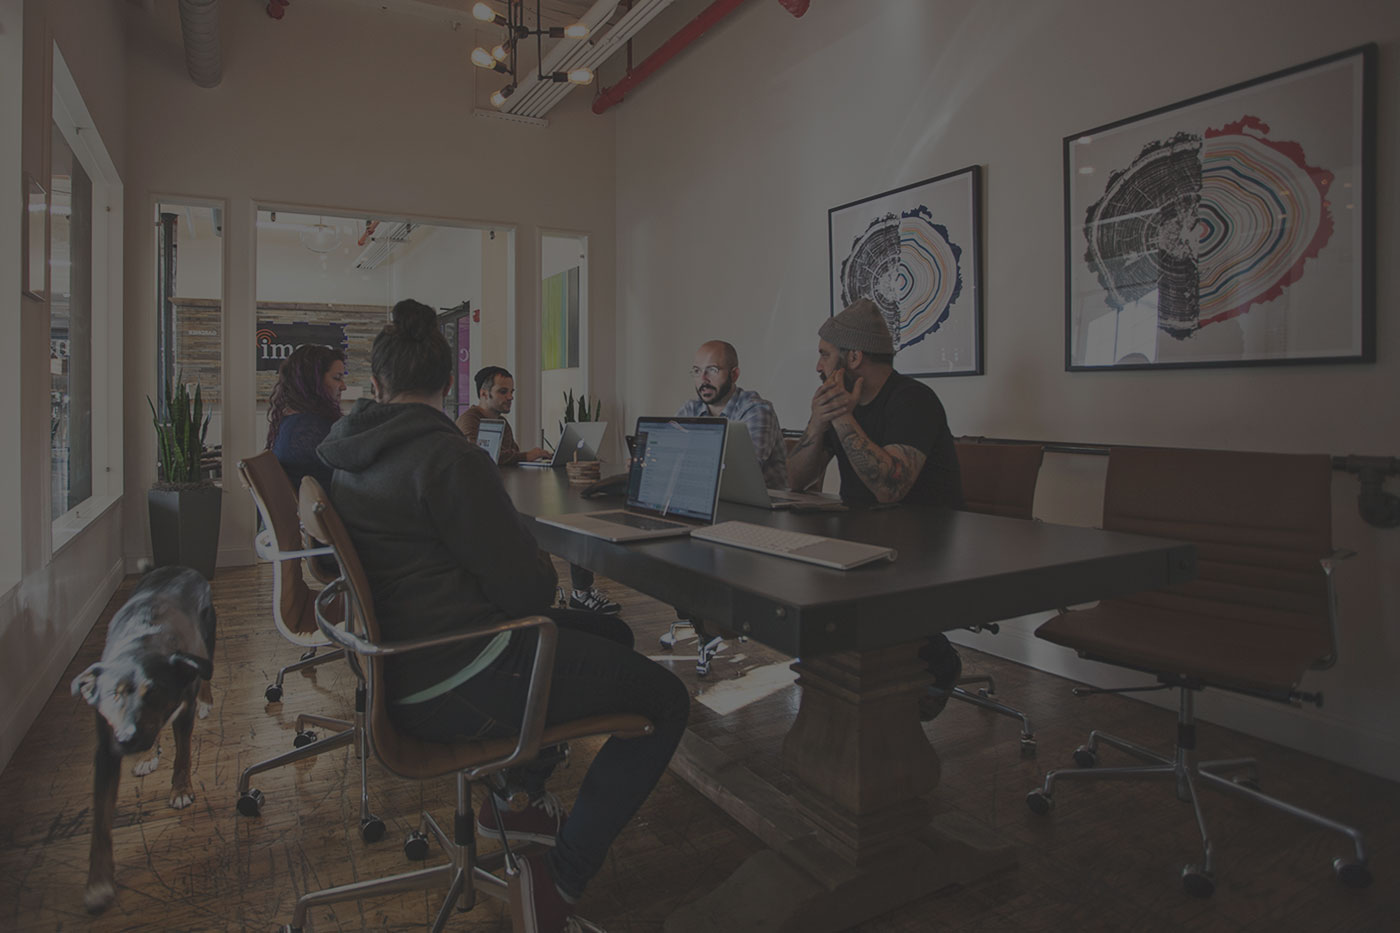
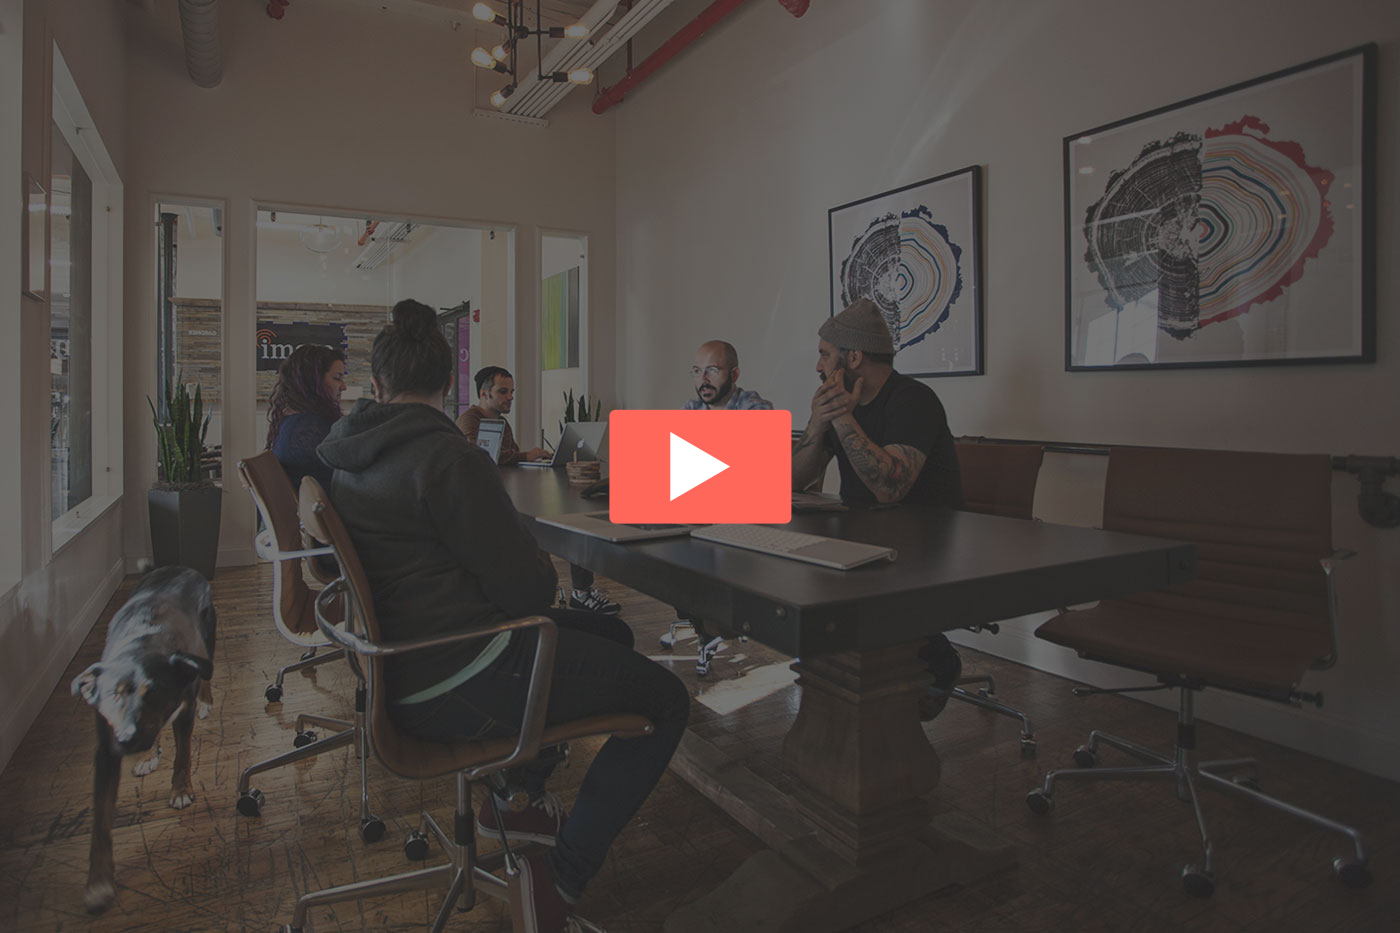
continue don modal component - started documentation piece

Changed region(s): [[0.43, 0.4352, 0.5836, 0.5595]]

diff --git a/components/modal.html b/components/modal.html
@@ -24,55 +24,109 @@
                     </div>
                 </section>
                 <section>
-                    <h2>Image Popup Example</h2>
+                    <div class="container">
+                        <h2>Image Popup Example</h2>
+                        <p>
+                            This is one of the simplest uses of magnific - zooming/expanding an image. Wrap the <code>img</code> in an <code>a</code> tag with the appropriate class, and use the <code>title</code> attribute as the image caption, as shown below:
+                        </p>
+                        <h4>Emmet:</h4>
+                        <p>
+                            <code>
+                                a.single-popup[title="Image Caption"]>img[src="/path-to-image" alt="image alt text"]
+                            </code>
+                        </p>
 
-                    <!-- Begin component -->
-                    <a class="single-popup" href="../img/dossier-1.jpg" title="Katie Desmond">
-                        <img src="../img/dossier-1.jpg" alt="Katie Desmond Popup">
-                    </a>
-                    &nbsp; &nbsp;
-                    <a class="single-popup" href="../img/dossier-2.jpg" title="Jason Makin"><img src="../img/dossier-2.jpg" alt="Jason Makin Popup"></a>
+
+                        <!-- Begin component -->
+                        <a class="single-popup" href="../img/dossier-1.jpg" title="Katie Desmond">
+                            <img src="../img/dossier-1.jpg" alt="Katie Desmond Popup">
+                        </a>
+                        &nbsp; &nbsp;
+                        <a class="single-popup" href="../img/dossier-2.jpg" title="Jason Makin">
+                            <img src="../img/dossier-2.jpg" alt="Jason Makin Popup">
+                        </a>
 
 
-                    <!-- end component -->
+                        <!-- end component -->
+                    </div>
+
+                </section>
+
+                <section>
+                    <div class="container">
+                        <h2>Video Popup Example</h2>
+
+                        <p>
+                            This is a simple video popup. Wrap a video placeholder image in an <code>a</code> tag with the appropriate class, and the video as the <code>href</code>:
+                        </p>
+                        <h4>Emmet:</h4>
+                        <p>
+                            <code>
+                                a.magnific-video[href="/path-to-video"]>img[src="/path-to-placeholder-image" alt="Video Placeholder Alt Text"]
+                            </code>
+                        </p>
+
+                        <!-- Begin component -->
+                        <a href="https://s3.amazonaws.com/imarc.com/imarc-culture-video.mp4" class="magnific-video" >
+                            <img width="700" src="../img/video-placeholder.jpg" alt="Video Placeholder">
+                        </a>
+                        <!-- end component -->
+                    </div>
 
 
                 </section>
 
                 <section>
-                    <h2>Video Popup Example</h2>
+                    <div class="container">
+                        <h2>HTML/Inline Popup Example(s)</h2>
+                        <p>
+                            This is a simple content popup which can include anything within a hidden <code>div</code>. Simply wrap a video placeholder image in an <code>a</code> tag with the appropriate class, and the video as the <code>href</code>:
+                        </p>
+                        <h4>Emmet:</h4>
+                        <p>
+                            <code>
+                                a.open-popup-link[href="#id-of-hidden-div"]
+                            </code>
+                        </p>
 
                     <!-- Begin component -->
+                       <p>
+                            <a href="#test-popup" class="open-popup-link button">Click Me!</a>
+                       </p>
 
-                        <a href="https://s3.amazonaws.com/imarc.com/imarc-culture-video.mp4" class="magnific-video" ><img width="700" src="../img/video-placeholder.jpg" alt="Video Placeholder"></a>
-                    <!-- end component -->
+                        <p>
+                            This is an alternative example using the data-mfp-src attribute.<br>
+                            <h4>Emmet:</h4>
+                            <p>
+                                <code>
+                                    a.open-popup-link[data-mfp-src="#id-of-hidden-div"]
+                                </code>
+                            </p>
+                            <a data-mfp-src="#test-popup2" class="open-popup-link">Show inline popup</a>
+                        </p>
 
 
-                </section>
+                    </div>
 
-                <section>
-                    <h2>HTML Popup Example</h2>
+                        <!-- end component -->
 
-                    <!-- Begin component -->
-                        <a href="#test-popup" class="open-popup-link">Learn More</a>
-                        <!--
-                        Alternative markup with data-mfp-src attribute:
-                        <a href="mobile-friendly-page.html" data-mfp-src="#test-popup" class="open-popup-link">Show inline popup</a>
-                        -->
-
-                        <!-- Popup itself -->
-                        <div id="test-popup" class="inline-popup mfp-hide">
-                          <h2>Popup content goes here</h2>
-                          <p>
-                              Lorem ipsum dolor sit amet, consectetur adipiscing elit. Donec quis volutpat urna. Morbi quis scelerisque tortor. Duis mollis et nulla eget vehicula. Vivamus varius faucibus volutpat. Duis lacinia, dolor sit amet molestie molestie, quam urna gravida lorem, eu efficitur massa metus nec est. Sed fringilla sagittis arcu ac facilisis. Phasellus laoreet dui at velit fringilla iaculis. Vestibulum pulvinar ut erat vitae dignissim. Suspendisse id scelerisque libero. Ut cursus nulla eget faucibus fringilla. Nunc eu justo ante. Pellentesque et ultrices urna. Ut malesuada orci quis commodo rhoncus.
-                          </p>
-                        </div>
-
-                    <!-- end component -->
 
 
                 </section>
             </main>
+        </div>
+        <!-- HTML Popup Content - can be placed anywhere on page -->
+        <div id="test-popup" class="inline-popup mfp-hide">
+          <h2>Popup content goes here</h2>
+          <p>
+              Lorem ipsum dolor sit amet, consectetur adipiscing elit. Donec quis volutpat urna. Morbi quis scelerisque tortor. Duis mollis et nulla eget vehicula. Vivamus varius faucibus volutpat. Duis lacinia, dolor sit amet molestie molestie, quam urna gravida lorem, eu efficitur massa metus nec est. Sed fringilla sagittis arcu ac facilisis. Phasellus laoreet dui at velit fringilla iaculis. Vestibulum pulvinar ut erat vitae dignissim. Suspendisse id scelerisque libero. Ut cursus nulla eget faucibus fringilla. Nunc eu justo ante. Pellentesque et ultrices urna. Ut malesuada orci quis commodo rhoncus.
+          </p>
+        </div>
+        <div id="test-popup2" class="inline-popup mfp-hide">
+          <h2>Popup2 content goes here</h2>
+          <p>
+              Lorem ipsum dolor sit amet, consectetur adipiscing elit. Donec quis volutpat urna. Morbi quis scelerisque tortor. Duis mollis et nulla eget vehicula. Vivamus varius faucibus volutpat. Duis lacinia, dolor sit amet molestie molestie, quam urna gravida lorem, eu efficitur massa metus nec est. Sed fringilla sagittis arcu ac facilisis. Phasellus laoreet dui at velit fringilla iaculis. Vestibulum pulvinar ut erat vitae dignissim. Suspendisse id scelerisque libero. Ut cursus nulla eget faucibus fringilla. Nunc eu justo ante. Pellentesque et ultrices urna. Ut malesuada orci quis commodo rhoncus.
+          </p>
         </div>
         <script src="https://code.jquery.com/jquery-2.2.3.min.js" integrity="sha256-a23g1Nt4dtEYOj7bR+vTu7+T8VP13humZFBJNIYoEJo=" crossorigin="anonymous"></script>
         <script type="text/javascript" src="https://cdnjs.cloudflare.com/ajax/libs/magnific-popup.js/1.1.0/jquery.magnific-popup.js"></script>
